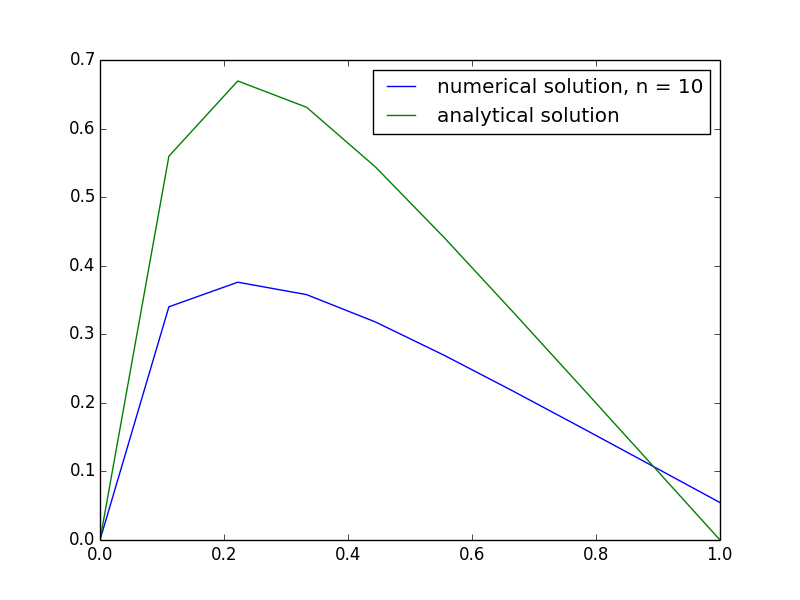
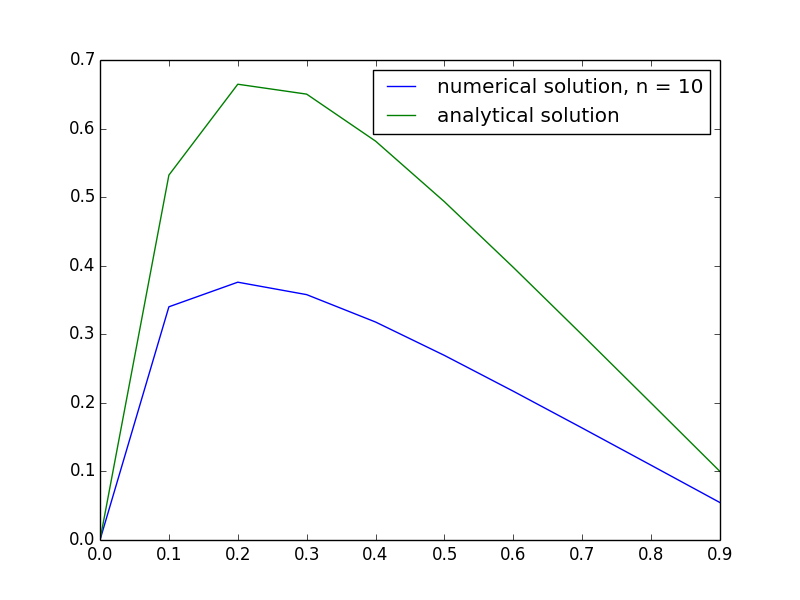
HALLELUJAH!!!!

diff --git a/PROSJEKT1/mainB.py b/PROSJEKT1/mainB.py
@@ -1,0 +1,55 @@
+from os import system
+import sys
+
+"""
+
+print("Compiling executable")
+
+system("c++ -c Functions.cpp")
+system("c++ -o 1b.exe 1b.cpp Functions.o")
+print("Finished compiling, executing....")
+N = [10, 100, 1000]
+for n in N:
+    system("./1b.exe" + " " + str(n) + " " + "1b-n" + str(n) + ".txt") #Kjører programmet med de to argumentene som skal sendes inn
+    system("python" + " " + "1bPlot.py" + " " + "1b-n" + str(n) + ".txt") #Kjører plotprogrammet
+    system("mv" + " " + "1b-n" + str(n) + ".png" + " " + "~/Documents/FA/5_semester/FYS3150/GitHub/FYS3150/PROSJEKT1/PlotsLU") #Lagrer plottene i en egen mappe
+    system("rm" + " " + "1b-n" + str(n) + ".txt") #Sletter txt-filene
+print("Done")
+"""
+
+
+
+print("Compiling executable")
+
+system("c++ -c Functions.cpp")
+system("c++ -o 1b.exe 1b.cpp Functions.o")
+print("Finished compiling, executing....")
+
+
+M = int(sys.argv[1])
+N = [10**i for i in range(1,M+1)]
+for n in N:
+    filename = "1b-n" + str(n) + ".txt"
+    filename2 = "time" + str(n) + ".txt"
+    figurename = filename.strip(".txt") + ".png"
+    system("./1b.exe" + " " + str(n) + " " + filename + " " + filename2)
+    system("python" + " " + "1bPlot.py" + " " + filename) #Kjører plotprogrammet
+    system("mv" + " " + figurename + " " + "~/Documents/FA/5_semester/FYS3150/GitHub/FYS3150/PROSJEKT1/Plots") #Lagrer plottene i en egen mappe
+    system("rm" + " " + filename) #Sletter txt-filene
+print("Done")
+
+
+
+NN = [10**i for i in range(1,M+1)]
+
+main_filename = "Btimes.txt"
+with open(main_filename, "w") as outfile:
+
+    outfile.write("n" + " " + "timeused" + "\n")
+
+    for n in NN:
+        filename2 = "time" + str(n) + ".txt"
+        with open(filename2, "r") as infile:
+            timeused = str(infile.readline())
+            outfile.write(str(n) + " " + timeused)
+        system("rm" + " " + "time" + str(n) + ".txt") #Sletter txt-filene

diff --git a/PROSJEKT1/1c.cpp b/PROSJEKT1/1c.cpp
@@ -4,64 +4,39 @@
 #include <iomanip>
 #include "Functions.h"
 #include "time.h"
+#include <cstdlib>
 
 using namespace std;
-ofstream myfile, myfile2;
+
 
 //Main function
 int main(int argc, char* argv[]){
 
   int n = atoi(argv[1]);  //convert string to integer
-  char* outfilename, *outfilename2;
+  char* outfilename;
   outfilename = argv[2];
-  outfilename2 = argv[3];
 
-
-
-  double *a, *b, *c, *x, *q, h;
+  double *x, *q, h;
   time_t start, finish;
 
-  a = new double[n];
-  b = new double[n];
-  c = new double[n];
   x = new double[n];
   q = new double[n];
-
-
-  for (int i = 0; i<n; i++){
-    a[i] = 2;
-    b[i] = -1;
-    c[i] = -1;
-  }
-  /* Kan fylle disse enklere ved armadillo - trenger terminalkommando-hjelp! */
 
   h = 1/((double) n + 1.0);
 
   Fill_q(q, n, h);
 
-
   start = clock();
-
-  Thomas(a, b, q, x, n);
-
-  //ThomasLU(a, b, c, x, q, n);
+  SpecialThomas(q, x, n);
 
   finish = clock();
 
   double time_used = (double) (finish - start)/ (CLOCKS_PER_SEC);
   cout << "Time used for n = "<< n << ": " << time_used << " s" << endl;
 
-
-
+  ofstream myfile;
   myfile.open(outfilename);
-  for (int i = 0; i<n; i++){
-    myfile << setprecision(9) << x[i] <<endl;
-  }
+  myfile << time_used <<endl;
   myfile.close();
-
-
-  myfile2.open(outfilename2);
-  myfile2 << time_used <<endl;
-  myfile2.close();
 
   }

diff --git a/PROSJEKT1/mainC.py b/PROSJEKT1/mainC.py
@@ -1,0 +1,27 @@
+from os import system
+import sys
+
+print("Compiling executable")
+
+system("c++ -c Functions.cpp")
+system("c++ -o 1c.exe 1c.cpp Functions.o")
+print("Finished compiling, executing....")
+
+M = int(sys.argv[1])
+N = [10**i for i in range(1,M+1)]
+
+main_filename = "Ctimes.txt"
+with open(main_filename, "w") as outfile:
+
+    outfile.write("n" + " " + "timeused" + "\n")
+
+    for n in N:
+        filename = "time" + str(n) + ".txt"
+        system("./1c.exe" + " " + str(n) + " " + filename) #Kjører programmet med de to argumentene som skal sendes inn
+        with open(filename, "r") as infile:
+            timeused = str(infile.readline())
+            outfile.write(str(n) + " " + timeused)
+        system("rm" + " " + "time" + str(n) + ".txt") #Sletter txt-filene
+print("Done")
+
+#KJØRER I TERMINAL: python3 mainC.py M

diff --git a/PROSJEKT1/1bPlot.py b/PROSJEKT1/1bPlot.py
@@ -5,15 +5,18 @@ import sys
 filename = str(sys.argv[1])
 figurename = filename.strip(".txt") + ".png"
 v = np.loadtxt(filename)
+
 n = len(v)
+
+
 
 def u(x):
     return 1 - (1-np.exp(-10))*x - np.exp(-10*x)
 
-x = np.linspace(0,1,n)
+x = np.linspace(0,1,n+1)
 
-plt.plot(x,v, label="numerical solution, n = " + str(n))
-plt.plot(x,u(x), label="analytical solution")
+plt.plot(x[0:-1],v, label="numerical solution, n = " + str(n))
+plt.plot(x[0:-1],u(x[0:-1]), label="analytical solution")
 plt.legend()
 plt.savefig(figurename)
 plt.close()

diff --git a/PROSJEKT1/Functions.cpp b/PROSJEKT1/Functions.cpp
@@ -77,6 +77,32 @@ void Thomas(double* d, double* l, double* g, double* u, int N){
 }
 
 
+void SpecialThomas(double* g, double* u, int N){
+
+    double *G;
+
+    G = new double[N];
+
+
+    // Forward substitution
+
+    for (int i = 1; i<N; i++){
+      G[i] = g[i] + (G[i-1]*(i-1))/i;
+    }
+
+    // Backward sub.
+
+    u[N-1] = ((N-1)*g[N-1])/N;
+
+    for (int i=N-2; i>0; i--){
+      u[i] = (i*(G[i]+u[i+1]))/(i+1);
+    }
+
+    delete[] G;
+
+}
+
+
 void Fill_q(double*q, int N, double h){
   double hh, x;
   hh = h*h;

diff --git a/PROSJEKT1/Functions.h b/PROSJEKT1/Functions.h
@@ -4,6 +4,8 @@ void ThomasLU(double*, double*, double*, double*, double*, int);
 
 void Thomas(double*, double*, double*, double*, int);
 
+void SpecialThomas(double*, double*, int);
+
 double f(double);
 
 void Fill_q(double*, int, double);
